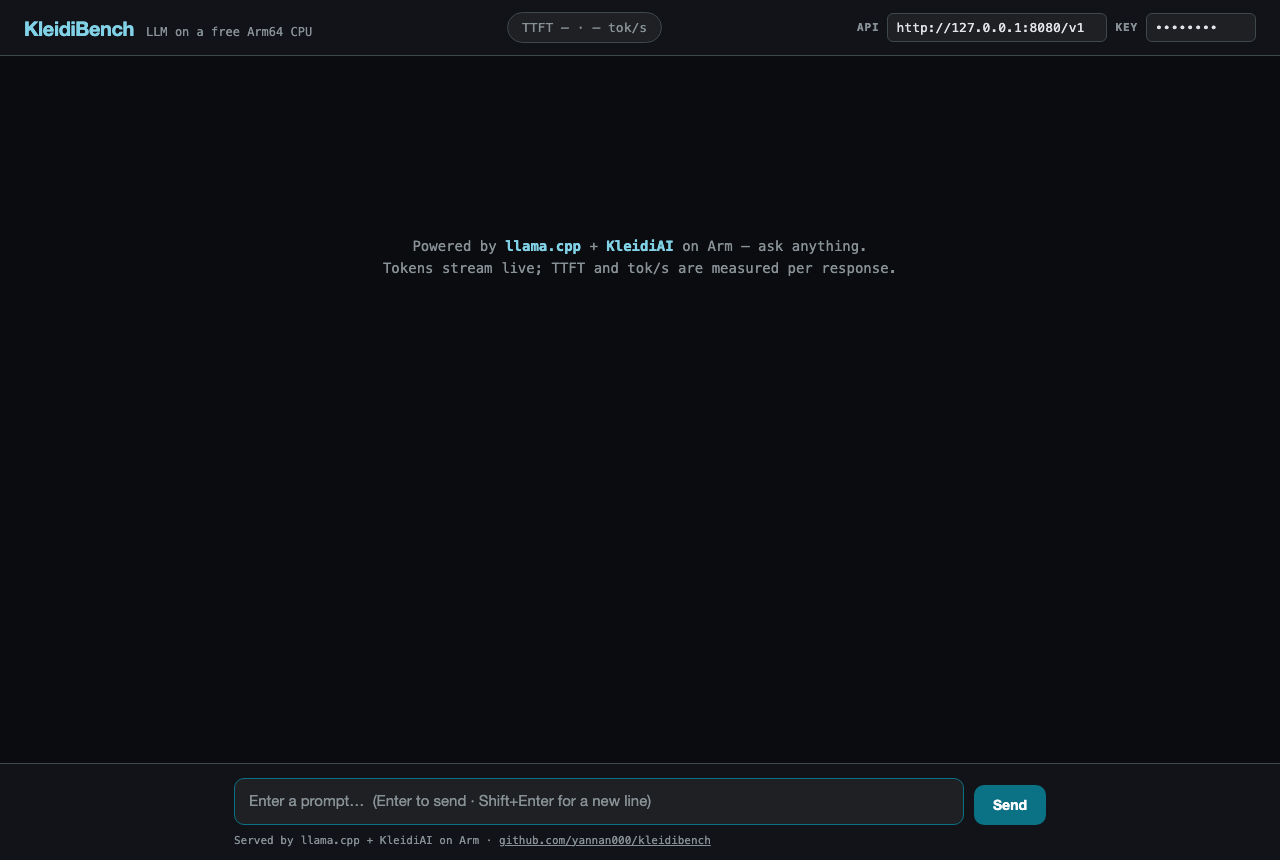
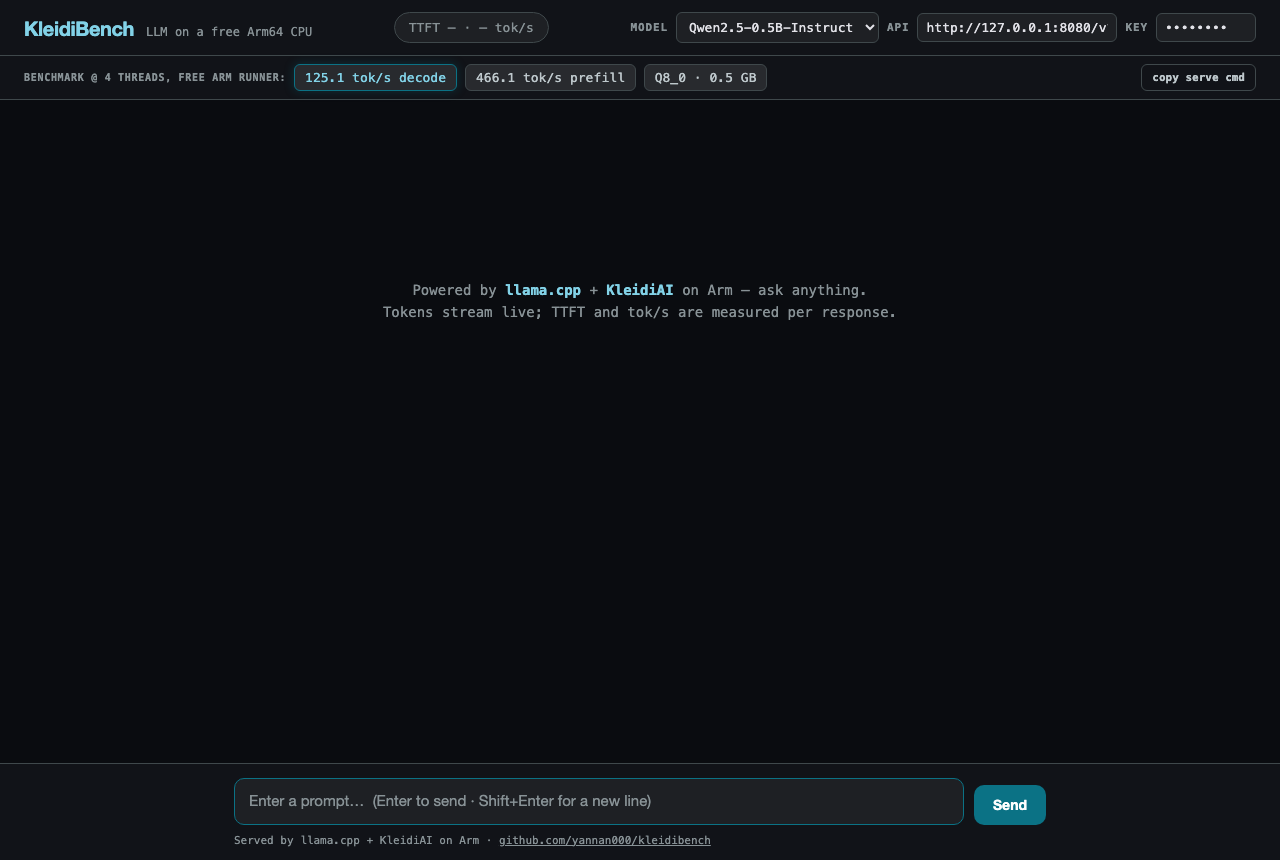
Chat UI: benchmarked-model selector with live-vs-benchmark stats
llama-server can't hot-swap models (one per process), so the selector does
something more honest and more useful: pick any of the 9 benchmarked
models to see its measured numbers in a benchmark strip, copy the exact
llama-server command for it, and — once serving — every response's stat
chip shows live tok/s NEXT TO the harness's benchmark number
('68.2 tok/s · bench 70.9'): the tool's predictions validating themselves
on camera. Model data baked from results/*.json; selected name sent in the
API payload (informational). chat.png refreshed; server.md explains the
one-model-per-process constraint.

diff --git a/demo/chat.html b/demo/chat.html
@@ -92,12 +92,40 @@ header {
   padding: 6px 8px; outline: none;
 }
 .settings input:focus { border-color: var(--primary-c); }
-#base-url { width: 220px; }
-#api-key { width: 110px; }
+#base-url { width: 200px; }
+#api-key { width: 100px; }
+#model-select {
+  font: 400 13px/1.2 var(--font-mono);
+  color: var(--text); background: var(--surface-c);
+  border: 1px solid var(--outline); border-radius: 6px;
+  padding: 6px 8px; outline: none; max-width: 210px;
+}
+#model-select:focus { border-color: var(--primary-c); }
 @media (max-width: 900px) {
   .brand .tag, .settings label { display: none; }
-  #base-url { width: 150px; } #api-key { width: 80px; }
+  #base-url { width: 130px; } #api-key { width: 70px; }
+  #model-select { max-width: 140px; }
 }
+
+/* benchmark expectation strip: what the harness measured for the selected model */
+#bench-strip {
+  display: flex; align-items: center; gap: 8px; flex-wrap: wrap;
+  padding: 8px 24px;
+  background: var(--surface);
+  border-bottom: 1px solid var(--outline);
+}
+.bench-label {
+  font: 600 10px/1 var(--font-mono); letter-spacing: 0.07em;
+  text-transform: uppercase; color: var(--muted);
+}
+#serve-cmd {
+  margin-left: auto;
+  font: 600 11px/1 var(--font-mono);
+  background: transparent; color: var(--text-dim);
+  border: 1px solid var(--outline); border-radius: 6px;
+  padding: 7px 10px;
+}
+#serve-cmd:hover { border-color: var(--primary-c); color: var(--primary); }
 
 /* ---------- messages ---------- */
 #scroll-area { flex: 1 1 auto; overflow-y: auto; scrollbar-width: thin; scrollbar-color: var(--user-bubble) transparent; }
@@ -196,12 +224,22 @@ body.busy #stop { display: inline-block; }
   </div>
   <div id="perf-badge" class="idle">TTFT — · — tok/s</div>
   <div class="settings">
+    <label for="model-select">Model</label>
+    <select id="model-select"></select>
     <label for="base-url">API</label>
     <input id="base-url" value="http://127.0.0.1:8080/v1" spellcheck="false">
     <label for="api-key">Key</label>
     <input id="api-key" type="password" value="demo-key" spellcheck="false">
   </div>
 </header>
+
+<div id="bench-strip">
+  <span class="bench-label">benchmark @ 4 threads, free Arm runner:</span>
+  <span class="chip" id="bench-decode"></span>
+  <span class="chip" id="bench-prefill"></span>
+  <span class="chip" id="bench-size"></span>
+  <button id="serve-cmd" type="button" title="Copy the llama-server command for this model">copy serve cmd</button>
+</div>
 
 <div id="scroll-area">
   <div id="messages">
@@ -227,9 +265,30 @@ body.busy #stop { display: inline-block; }
 <script>
 "use strict";
 
+// Benchmarked models — numbers from results/<model>/results.json (best decode
+// config @ 4 threads on the free GitHub arm64 runner, Neoverse N2).
+// llama-server loads ONE model per process: this selector sets the benchmark
+// context and hands you the serve command; it cannot hot-swap the backend.
+const MODELS = [
+  { name: "Qwen2.5-0.5B-Instruct", gguf: "Qwen2.5-0.5B-Instruct-Q8_0.gguf", quant: "Q8_0", decode: 125.1, prefill: 466.1, size: 0.5 },
+  { name: "Qwen2.5-1.5B-Instruct", gguf: "Qwen2.5-1.5B-Instruct-Q8_0.gguf", quant: "Q8_0", decode: 44.6, prefill: 186.3, size: 1.5 },
+  { name: "SmolLM2-1.7B-Instruct", gguf: "SmolLM2-1.7B-Instruct-Q8_0.gguf", quant: "Q8_0", decode: 37.6, prefill: 172.7, size: 1.7 },
+  { name: "gemma-4-E2B-it", gguf: "gemma-4-E2B-it-Q4_0.gguf", quant: "Q4_0", decode: 23.4, prefill: 46.2, size: 2.8 },
+  { name: "Qwen2.5-3B-Instruct", gguf: "Qwen2.5-3B-Instruct-Q8_0.gguf", quant: "Q8_0", decode: 23.3, prefill: 107.7, size: 3.1 },
+  { name: "Phi-3.5-mini-instruct", gguf: "Phi-3.5-mini-instruct-Q4_0.gguf", quant: "Q4_0", decode: 18.6, prefill: 54.4, size: 2.0 },
+  { name: "gemma-4-E4B-it", gguf: "gemma-4-E4B-it-Q4_0.gguf", quant: "Q4_0", decode: 12.5, prefill: 28.0, size: 4.5 },
+  { name: "Qwythos-9B", gguf: "Qwythos-9B-Q4_K_M.gguf", quant: "Q4_K_M", decode: 6.5, prefill: 21.6, size: 5.2 },
+  { name: "gemma-4-12B-it", gguf: "gemma-4-12B-it-Q4_0.gguf", quant: "Q4_0", decode: 6.0, prefill: 16.4, size: 6.3 },
+];
+
 const els = {
   baseUrl: document.getElementById("base-url"),
   apiKey: document.getElementById("api-key"),
+  modelSelect: document.getElementById("model-select"),
+  benchDecode: document.getElementById("bench-decode"),
+  benchPrefill: document.getElementById("bench-prefill"),
+  benchSize: document.getElementById("bench-size"),
+  serveCmd: document.getElementById("serve-cmd"),
   messages: document.getElementById("messages"),
   scrollArea: document.getElementById("scroll-area"),
   prompt: document.getElementById("prompt"),
@@ -242,6 +301,38 @@ const els = {
 const conversation = [];   // {role, content} sent to the API
 let busy = false;
 let aborter = null;
+
+// ---- benchmarked-model selector ----
+function currentModel() {
+  return MODELS[els.modelSelect.selectedIndex] || MODELS[0];
+}
+
+function updateBenchStrip() {
+  const m = currentModel();
+  els.benchDecode.textContent = m.decode + " tok/s decode";
+  els.benchDecode.className = "chip tps";
+  els.benchPrefill.textContent = m.prefill + " tok/s prefill";
+  els.benchSize.textContent = m.quant + " · " + m.size + " GB";
+}
+
+for (const m of MODELS) {
+  const o = document.createElement("option");
+  o.textContent = m.name;
+  els.modelSelect.appendChild(o);
+}
+els.modelSelect.addEventListener("change", updateBenchStrip);
+updateBenchStrip();
+
+els.serveCmd.addEventListener("click", () => {
+  const m = currentModel();
+  const cmd = "~/.kleidibench/build-kleidiai-on/bin/llama-server " +
+              "-m ~/.kleidibench/models/" + m.gguf +
+              " --host 127.0.0.1 --port 8080 -t $(nproc) -c 4096 --api-key demo-key";
+  navigator.clipboard.writeText(cmd).then(() => {
+    els.serveCmd.textContent = "copied ✓";
+    setTimeout(() => { els.serveCmd.textContent = "copy serve cmd"; }, 1600);
+  }).catch(() => { window.prompt("Copy the serve command:", cmd); });
+});
 
 function scrollToBottom() {
   els.scrollArea.scrollTop = els.scrollArea.scrollHeight;
@@ -280,7 +371,8 @@ function addStats(wrap, ttftMs, tps, nTokens, partial) {
     stats.appendChild(c);
   };
   mk("TTFT " + Math.round(ttftMs) + " ms");
-  mk(tps.toFixed(1) + " tok/s", "tps");
+  // live vs what the harness measured for the selected model — the whole point
+  mk(tps.toFixed(1) + " tok/s · bench " + currentModel().decode, "tps");
   mk(nTokens + " tokens" + (partial ? " · stopped" : ""));
   wrap.appendChild(stats);
 }
@@ -336,7 +428,7 @@ async function send() {
       headers,
       signal: aborter.signal,
       body: JSON.stringify({
-        model: "local",
+        model: currentModel().name,   // informational: llama-server serves its loaded model
         stream: true,
         messages: conversation,
       }),

diff --git a/demo/server.md b/demo/server.md
@@ -66,6 +66,15 @@ account, no server to maintain."*
 > `chat.html` works from `file://`, a local static server, or GitHub Pages
 > without any proxy.
 
+## Choosing a model
+
+`llama-server` loads **one model per process** — there is no hot-swap API. The
+chat UI's model selector therefore sets the *benchmark context*: pick any of
+the 9 benchmarked models to see its measured decode/prefill numbers in the
+strip, and hit **copy serve cmd** to get the exact `llama-server` command for
+it. Restart the server with that command and the live stats line under each
+response shows measured-vs-benchmark side by side (`68.2 tok/s · bench 70.9`).
+
 ## Browser chat UI
 
 Prefer a visual chat over the terminal? Open [`demo/chat.html`](chat.html)
